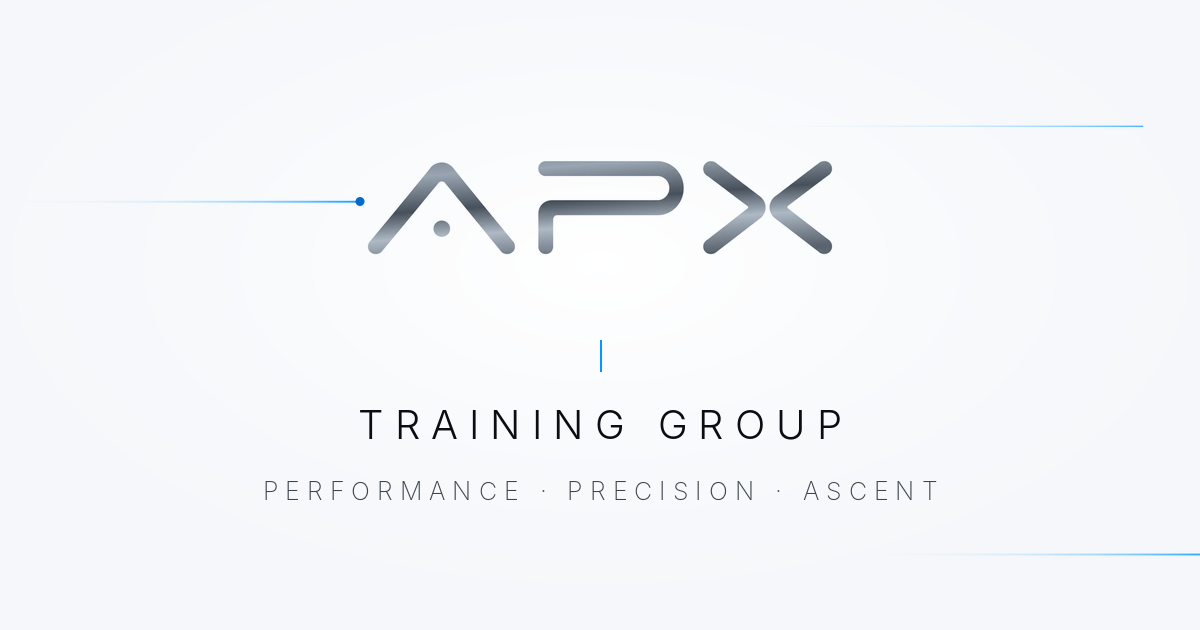
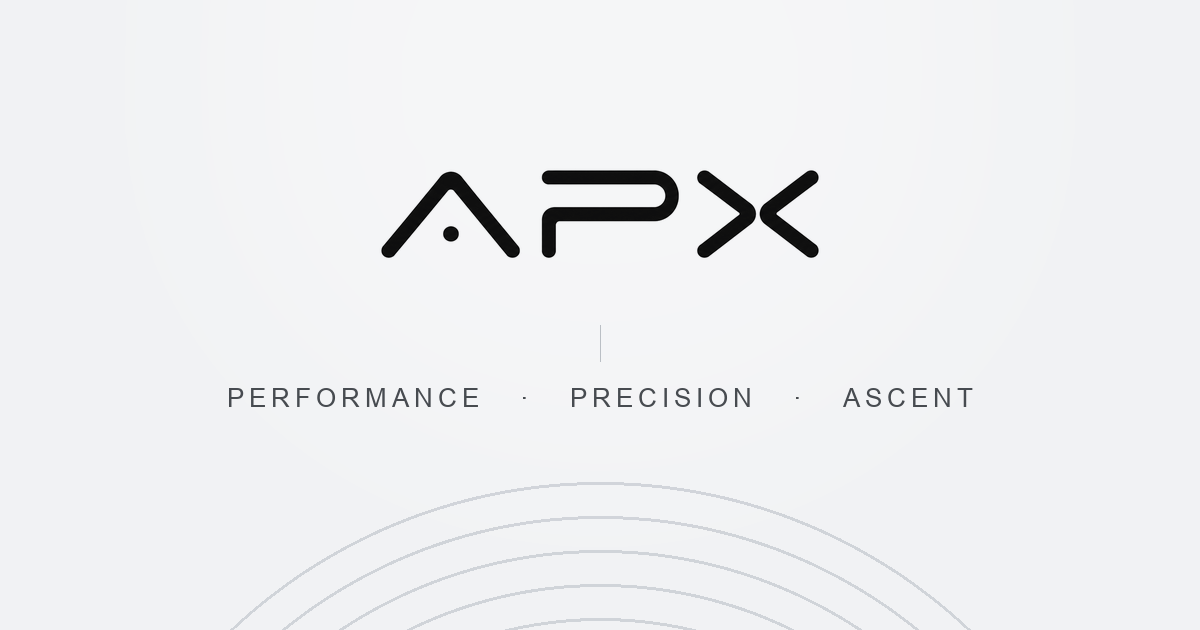
Seamless in-place apply overlay (History API) + new OG card
- Request Consideration now opens the application in place — no document
  load — via a glass veil, fetching /apply and injecting it, and updates
  the URL to /apply through the History API (back/close restores home).
  /apply remains a real, shareable URL: a direct visit serves the
  standalone page. Falls back to normal navigation on reduced-motion or
  fetch failure.
- apply.js refactored to window.APXApplyInit so the form binds whether
  standalone or injected; loaded on the home page too.
- Smoother, eased glass timings; overlay + scroll-lock styles.
- Regenerate the link-preview OG image to the new platinum/black styling;
  bump og-image (v=3), site.css (v=5), apply.js (v=3), transition.js (v=2).

diff --git a/assets/transition.js b/assets/transition.js
@@ -1,32 +1,130 @@
 /* ─────────────────────────────────────────────────────────────
-   APX — glass page transition (outgoing)
-   Intercepts clicks on links to /apply, frosts a glass veil over the
-   page, then navigates. The apply page clears the veil on load (handled
-   in CSS via the `entering` class). Falls back to a normal navigation
-   under prefers-reduced-motion or if anything is off.
+   APX — glass page transition + in-place apply overlay
+   Clicking a Request Consideration link frosts a glass veil, opens the
+   application IN PLACE (no document load) and updates the URL to /apply
+   via the History API — so it feels seamless but /apply is still a real,
+   shareable URL (a direct visit loads the standalone page). Falls back
+   to a normal navigation on reduced-motion or if the fetch fails.
    ───────────────────────────────────────────────────────────── */
 (function () {
   'use strict';
 
-  if (window.matchMedia && window.matchMedia('(prefers-reduced-motion: reduce)').matches) return;
-  if (/^\/apply\/?$/.test(location.pathname)) return; /* only on the way TO apply */
-
+  var reduce = window.matchMedia && window.matchMedia('(prefers-reduced-motion: reduce)').matches;
   var veil = document.querySelector('.glass-veil');
+
+  /* On the standalone /apply page this script does nothing (that page
+     handles its own reveal). Only the home page runs the overlay. */
+  if (/^\/apply\/?$/.test(location.pathname)) return;
   if (!veil) return;
 
-  var navigating = false;
+  var COVER_MS = 620;   /* time for the glass to fully frost over        */
+  var homeTitle = document.title;
+  var stylesInjected = false;
+  var busy = false;
+  var open = false;
+
+  function cover() {
+    veil.classList.remove('glass-veil--clearing');
+    /* restart the cover animation */
+    veil.classList.remove('glass-veil--covering');
+    void veil.offsetWidth;
+    veil.classList.add('glass-veil--covering');
+  }
+  function clear() {
+    veil.classList.remove('glass-veil--covering');
+    veil.classList.remove('glass-veil--clearing');
+    void veil.offsetWidth;
+    veil.classList.add('glass-veil--clearing');
+  }
+
+  function buildOverlay(doc) {
+    if (!stylesInjected) {
+      var st = doc.querySelector('style');
+      if (st) {
+        var s = document.createElement('style');
+        s.id = 'apply-styles';
+        s.textContent = st.textContent;
+        document.head.appendChild(s);
+      }
+      stylesInjected = true;
+    }
+    var wrap = doc.getElementById('formWrap');
+    if (!wrap) return null;
+    var done = doc.getElementById('done');
+    var back = doc.querySelector('.backlink');
+
+    var ov = document.createElement('div');
+    ov.className = 'apply-overlay';
+    ov.id = 'applyOverlay';
+    if (back) { back.setAttribute('href', '/'); back.setAttribute('data-close', ''); ov.appendChild(back); }
+    ov.appendChild(wrap);
+    if (done) ov.appendChild(done);
+    return ov;
+  }
+
+  function openApply(push) {
+    if (open || busy) return;
+    if (reduce) { location.href = '/apply'; return; }
+    busy = true;
+    var started = Date.now();
+    cover();
+
+    fetch('/apply/', { credentials: 'same-origin' })
+      .then(function (r) { return r.text(); })
+      .then(function (html) {
+        var doc = new DOMParser().parseFromString(html, 'text/html');
+        var ov = buildOverlay(doc);
+        if (!ov) { location.href = '/apply'; return; }
+        document.body.appendChild(ov);
+        document.documentElement.classList.add('apply-open');
+        ov.scrollTop = 0;
+        if (push !== false) history.pushState({ apply: 1 }, '', '/apply');
+        document.title = doc.title || 'APX — Request Consideration';
+        if (window.APXApplyInit) window.APXApplyInit();
+        open = true;
+
+        /* reveal only once the glass has fully frosted, so the swap is hidden */
+        var wait = Math.max(0, COVER_MS - (Date.now() - started));
+        setTimeout(function () { clear(); busy = false; }, wait);
+      })
+      .catch(function () { location.href = '/apply'; });
+  }
+
+  function closeApply(push) {
+    if (!open || busy) return;
+    busy = true;
+    cover();
+    setTimeout(function () {
+      var ov = document.getElementById('applyOverlay');
+      if (ov) ov.remove();
+      document.documentElement.classList.remove('apply-open');
+      document.title = homeTitle;
+      open = false;
+      if (push !== false) history.pushState({}, '', '/');
+      clear();
+      busy = false;
+    }, COVER_MS);
+  }
 
   document.addEventListener('click', function (e) {
-    var a = e.target.closest && e.target.closest('a[href="/apply"]');
-    if (!a) return;
-    /* let modified clicks (new tab, etc.) behave normally */
-    if (e.metaKey || e.ctrlKey || e.shiftKey || e.altKey || e.button !== 0) return;
-    if (navigating) return;
+    if (!e.target.closest) return;
 
+    /* close controls inside the overlay (the ← APX link) */
+    if (open) {
+      var closeEl = e.target.closest('[data-close], #applyOverlay a[href="/"]');
+      if (closeEl) { e.preventDefault(); history.back(); return; }
+    }
+
+    var a = e.target.closest('a[href="/apply"]');
+    if (!a) return;
+    if (e.metaKey || e.ctrlKey || e.shiftKey || e.altKey || e.button !== 0) return;
     e.preventDefault();
-    navigating = true;
-    veil.classList.add('glass-veil--covering');
-    /* navigate once the glass has frosted over */
-    setTimeout(function () { location.href = '/apply'; }, 500);
+    openApply(true);
+  });
+
+  window.addEventListener('popstate', function () {
+    var onApply = /^\/apply\/?$/.test(location.pathname);
+    if (onApply && !open) openApply(false);
+    else if (!onApply && open) closeApply(false);
   });
 })();

diff --git a/assets/apply.js b/assets/apply.js
@@ -1,77 +1,82 @@
 /* ─────────────────────────────────────────────────────────────
    APX — application submit handler
-   Serializes the form, POSTs JSON to /api/apply, and swaps in the
-   success state without a reload. Native validation runs first; the
-   honeypot + a start timestamp travel with the payload for the
-   Function's bot filter.
+   Exposed as window.APXApplyInit(scope) so it can bind the form on the
+   standalone /apply page OR on the in-place overlay injected on the home
+   page. Serializes the form, POSTs JSON to /api/apply, and swaps in the
+   success state without a reload.
    ───────────────────────────────────────────────────────────── */
 (function () {
   'use strict';
 
-  var form = document.getElementById('applyForm');
-  if (!form) return;
+  function init() {
+    var form = document.getElementById('applyForm');
+    if (!form || form.__apxBound) return;
+    form.__apxBound = true;
 
-  /* Stamp when the form became interactive — the Function rejects
-     submissions that arrive implausibly fast. */
-  var started = document.getElementById('started_at');
-  if (started) started.value = String(Date.now());
+    /* Stamp when the form became interactive — the Function rejects
+       submissions that arrive implausibly fast. */
+    var started = document.getElementById('started_at');
+    if (started) started.value = String(Date.now());
 
-  var btn = document.getElementById('submitBtn');
-  var errEl = document.getElementById('formError');
-  var wrap = document.getElementById('formWrap');
-  var done = document.getElementById('done');
+    var btn = document.getElementById('submitBtn');
+    var errEl = document.getElementById('formError');
+    var wrap = document.getElementById('formWrap');
+    var done = document.getElementById('done');
 
-  function showError(msg) {
-    if (!errEl) return;
-    errEl.textContent = msg;
-    errEl.classList.add('show');
-  }
-  function clearError() {
-    if (!errEl) return;
-    errEl.classList.remove('show');
-    errEl.textContent = '';
-  }
-
-  form.addEventListener('submit', function (e) {
-    e.preventDefault();
-    clearError();
-
-    /* Let the browser surface the first invalid required field. */
-    if (!form.checkValidity()) {
-      form.reportValidity();
-      return;
+    function showError(msg) {
+      if (!errEl) return;
+      errEl.textContent = msg;
+      errEl.classList.add('show');
+    }
+    function clearError() {
+      if (!errEl) return;
+      errEl.classList.remove('show');
+      errEl.textContent = '';
     }
 
-    var data = {};
-    new FormData(form).forEach(function (value, key) { data[key] = value; });
+    form.addEventListener('submit', function (e) {
+      e.preventDefault();
+      clearError();
 
-    btn.disabled = true;
-    var label = btn.textContent;
-    btn.textContent = 'Submitting…';
+      if (!form.checkValidity()) {
+        form.reportValidity();
+        return;
+      }
 
-    fetch('/api/apply', {
-      method: 'POST',
-      headers: { 'Content-Type': 'application/json' },
-      body: JSON.stringify(data)
-    })
-      .then(function (res) {
-        return res.json().catch(function () { return {}; }).then(function (body) {
-          return { ok: res.ok, body: body };
+      var data = {};
+      new FormData(form).forEach(function (value, key) { data[key] = value; });
+
+      btn.disabled = true;
+      var label = btn.textContent;
+      btn.textContent = 'Submitting…';
+
+      fetch('/api/apply', {
+        method: 'POST',
+        headers: { 'Content-Type': 'application/json' },
+        body: JSON.stringify(data)
+      })
+        .then(function (res) {
+          return res.json().catch(function () { return {}; }).then(function (body) {
+            return { ok: res.ok, body: body };
+          });
+        })
+        .then(function (r) {
+          if (!r.ok || !r.body.ok) {
+            throw new Error((r.body && r.body.error) || 'Something went wrong. Please try again.');
+          }
+          if (wrap) wrap.style.display = 'none';
+          if (done) done.classList.add('show');
+          var scroller = form.closest('.apply-overlay') || window;
+          if (scroller.scrollTo) scroller.scrollTo({ top: 0, behavior: 'smooth' });
+        })
+        .catch(function (err) {
+          showError(err.message || 'Could not submit right now. Please try again.');
+          btn.disabled = false;
+          btn.textContent = label;
         });
-      })
-      .then(function (r) {
-        if (!r.ok || !r.body.ok) {
-          throw new Error((r.body && r.body.error) || 'Something went wrong. Please try again.');
-        }
-        /* Success — reveal the confirmation state. */
-        if (wrap) wrap.style.display = 'none';
-        if (done) done.classList.add('show');
-        window.scrollTo({ top: 0, behavior: 'smooth' });
-      })
-      .catch(function (err) {
-        showError(err.message || 'Could not submit right now. Please try again.');
-        btn.disabled = false;
-        btn.textContent = label;
-      });
-  });
+    });
+  }
+
+  window.APXApplyInit = init;
+  init(); /* standalone /apply page (no-op elsewhere until called) */
 })();

diff --git a/index.html b/index.html
@@ -17,8 +17,8 @@
   <meta property="og:title" content="APX Training Group">
   <meta property="og:description" content="Performance · Precision · Ascent. A team, a culture, and a standard. Membership by consideration.">
   <meta property="og:url" content="https://runapx.com/">
-  <meta property="og:image" content="https://runapx.com/assets/og-image.png?v=2">
-  <meta property="og:image:secure_url" content="https://runapx.com/assets/og-image.png?v=2">
+  <meta property="og:image" content="https://runapx.com/assets/og-image.png?v=3">
+  <meta property="og:image:secure_url" content="https://runapx.com/assets/og-image.png?v=3">
   <meta property="og:image:type" content="image/png">
   <meta property="og:image:width" content="1200">
   <meta property="og:image:height" content="630">
@@ -28,13 +28,13 @@
   <meta name="twitter:card" content="summary_large_image">
   <meta name="twitter:title" content="APX Training Group">
   <meta name="twitter:description" content="Performance · Precision · Ascent. A team, a culture, and a standard. Membership by consideration.">
-  <meta name="twitter:image" content="https://runapx.com/assets/og-image.png?v=2">
+  <meta name="twitter:image" content="https://runapx.com/assets/og-image.png?v=3">
   <meta name="twitter:image:alt" content="APX Training Group — Performance · Precision · Ascent">
 
   <link rel="preconnect" href="https://fonts.googleapis.com">
   <link rel="preconnect" href="https://fonts.gstatic.com" crossorigin>
   <link href="https://fonts.googleapis.com/css2?family=Inter:wght@200;300;400&display=swap" rel="stylesheet">
-  <link rel="stylesheet" href="/assets/site.css?v=4">
+  <link rel="stylesheet" href="/assets/site.css?v=5">
   <!-- Flip no-js → js before paint so 3D panes only transform when JS can drive them. -->
   <script>document.documentElement.classList.remove('no-js');</script>
   <style>
@@ -517,6 +517,7 @@
   </footer>
 
   <script src="/assets/app.js?v=8" defer></script>
-  <script src="/assets/transition.js?v=1" defer></script>
+  <script src="/assets/apply.js?v=3" defer></script>
+  <script src="/assets/transition.js?v=2" defer></script>
 </body>
 </html>

diff --git a/assets/site.css b/assets/site.css
@@ -194,12 +194,25 @@ body::after {
   mix-blend-mode: screen;
   opacity: 0;
 }
-/* outgoing — glass frosts over the page before we navigate */
-.glass-veil--covering { animation: veilCover 0.52s cubic-bezier(0.16, 1, 0.3, 1) both; }
-.glass-veil--covering::after { animation: veilShine 0.6s ease-out both; }
-/* incoming — glass clears to reveal the loaded page */
-.entering .glass-veil { animation: veilReveal 0.8s cubic-bezier(0.16, 1, 0.3, 1) both; }
-.entering .glass-veil::after { animation: veilShine 0.8s ease-out both; }
+/* glass frosts over (cover) then clears (reveal) — smooth, eased */
+.glass-veil--covering { animation: veilCover 0.62s cubic-bezier(0.4, 0, 0.2, 1) both; }
+.glass-veil--covering::after { animation: veilShine 0.7s ease-out both; }
+.glass-veil--clearing { animation: veilReveal 0.9s cubic-bezier(0.16, 1, 0.3, 1) both; }
+.glass-veil--clearing::after { animation: veilShine 0.9s ease-out both; }
+/* standalone /apply page reveal on arrival */
+.entering .glass-veil { animation: veilReveal 0.9s cubic-bezier(0.16, 1, 0.3, 1) both; }
+.entering .glass-veil::after { animation: veilShine 0.9s ease-out both; }
+
+/* ── In-place application overlay (opened from the home page) ── */
+.apply-overlay {
+  position: fixed;
+  inset: 0;
+  z-index: 150;
+  overflow-y: auto;
+  -webkit-overflow-scrolling: touch;
+  background: var(--bg);
+}
+html.apply-open, html.apply-open body { overflow: hidden; }
 
 @keyframes veilCover {
   from { opacity: 0; -webkit-backdrop-filter: blur(0px); backdrop-filter: blur(0px); }

diff --git a/apply/index.html b/apply/index.html
@@ -17,12 +17,12 @@
   <meta property="og:title" content="APX — Request Consideration">
   <meta property="og:description" content="Admission is considered, not sold.">
   <meta property="og:url" content="https://runapx.com/apply">
-  <meta property="og:image" content="https://runapx.com/assets/og-image.png?v=2">
+  <meta property="og:image" content="https://runapx.com/assets/og-image.png?v=3">
 
   <link rel="preconnect" href="https://fonts.googleapis.com">
   <link rel="preconnect" href="https://fonts.gstatic.com" crossorigin>
   <link href="https://fonts.googleapis.com/css2?family=Inter:wght@200;300;400&display=swap" rel="stylesheet">
-  <link rel="stylesheet" href="/assets/site.css?v=4">
+  <link rel="stylesheet" href="/assets/site.css?v=5">
   <script>
     document.documentElement.classList.remove('no-js');
     /* glass reveal on arrival (skipped for reduced motion) */
@@ -547,6 +547,6 @@
     <a href="/">← Return</a>
   </div>
 
-  <script src="/assets/apply.js?v=2" defer></script>
+  <script src="/assets/apply.js?v=3" defer></script>
 </body>
 </html>
